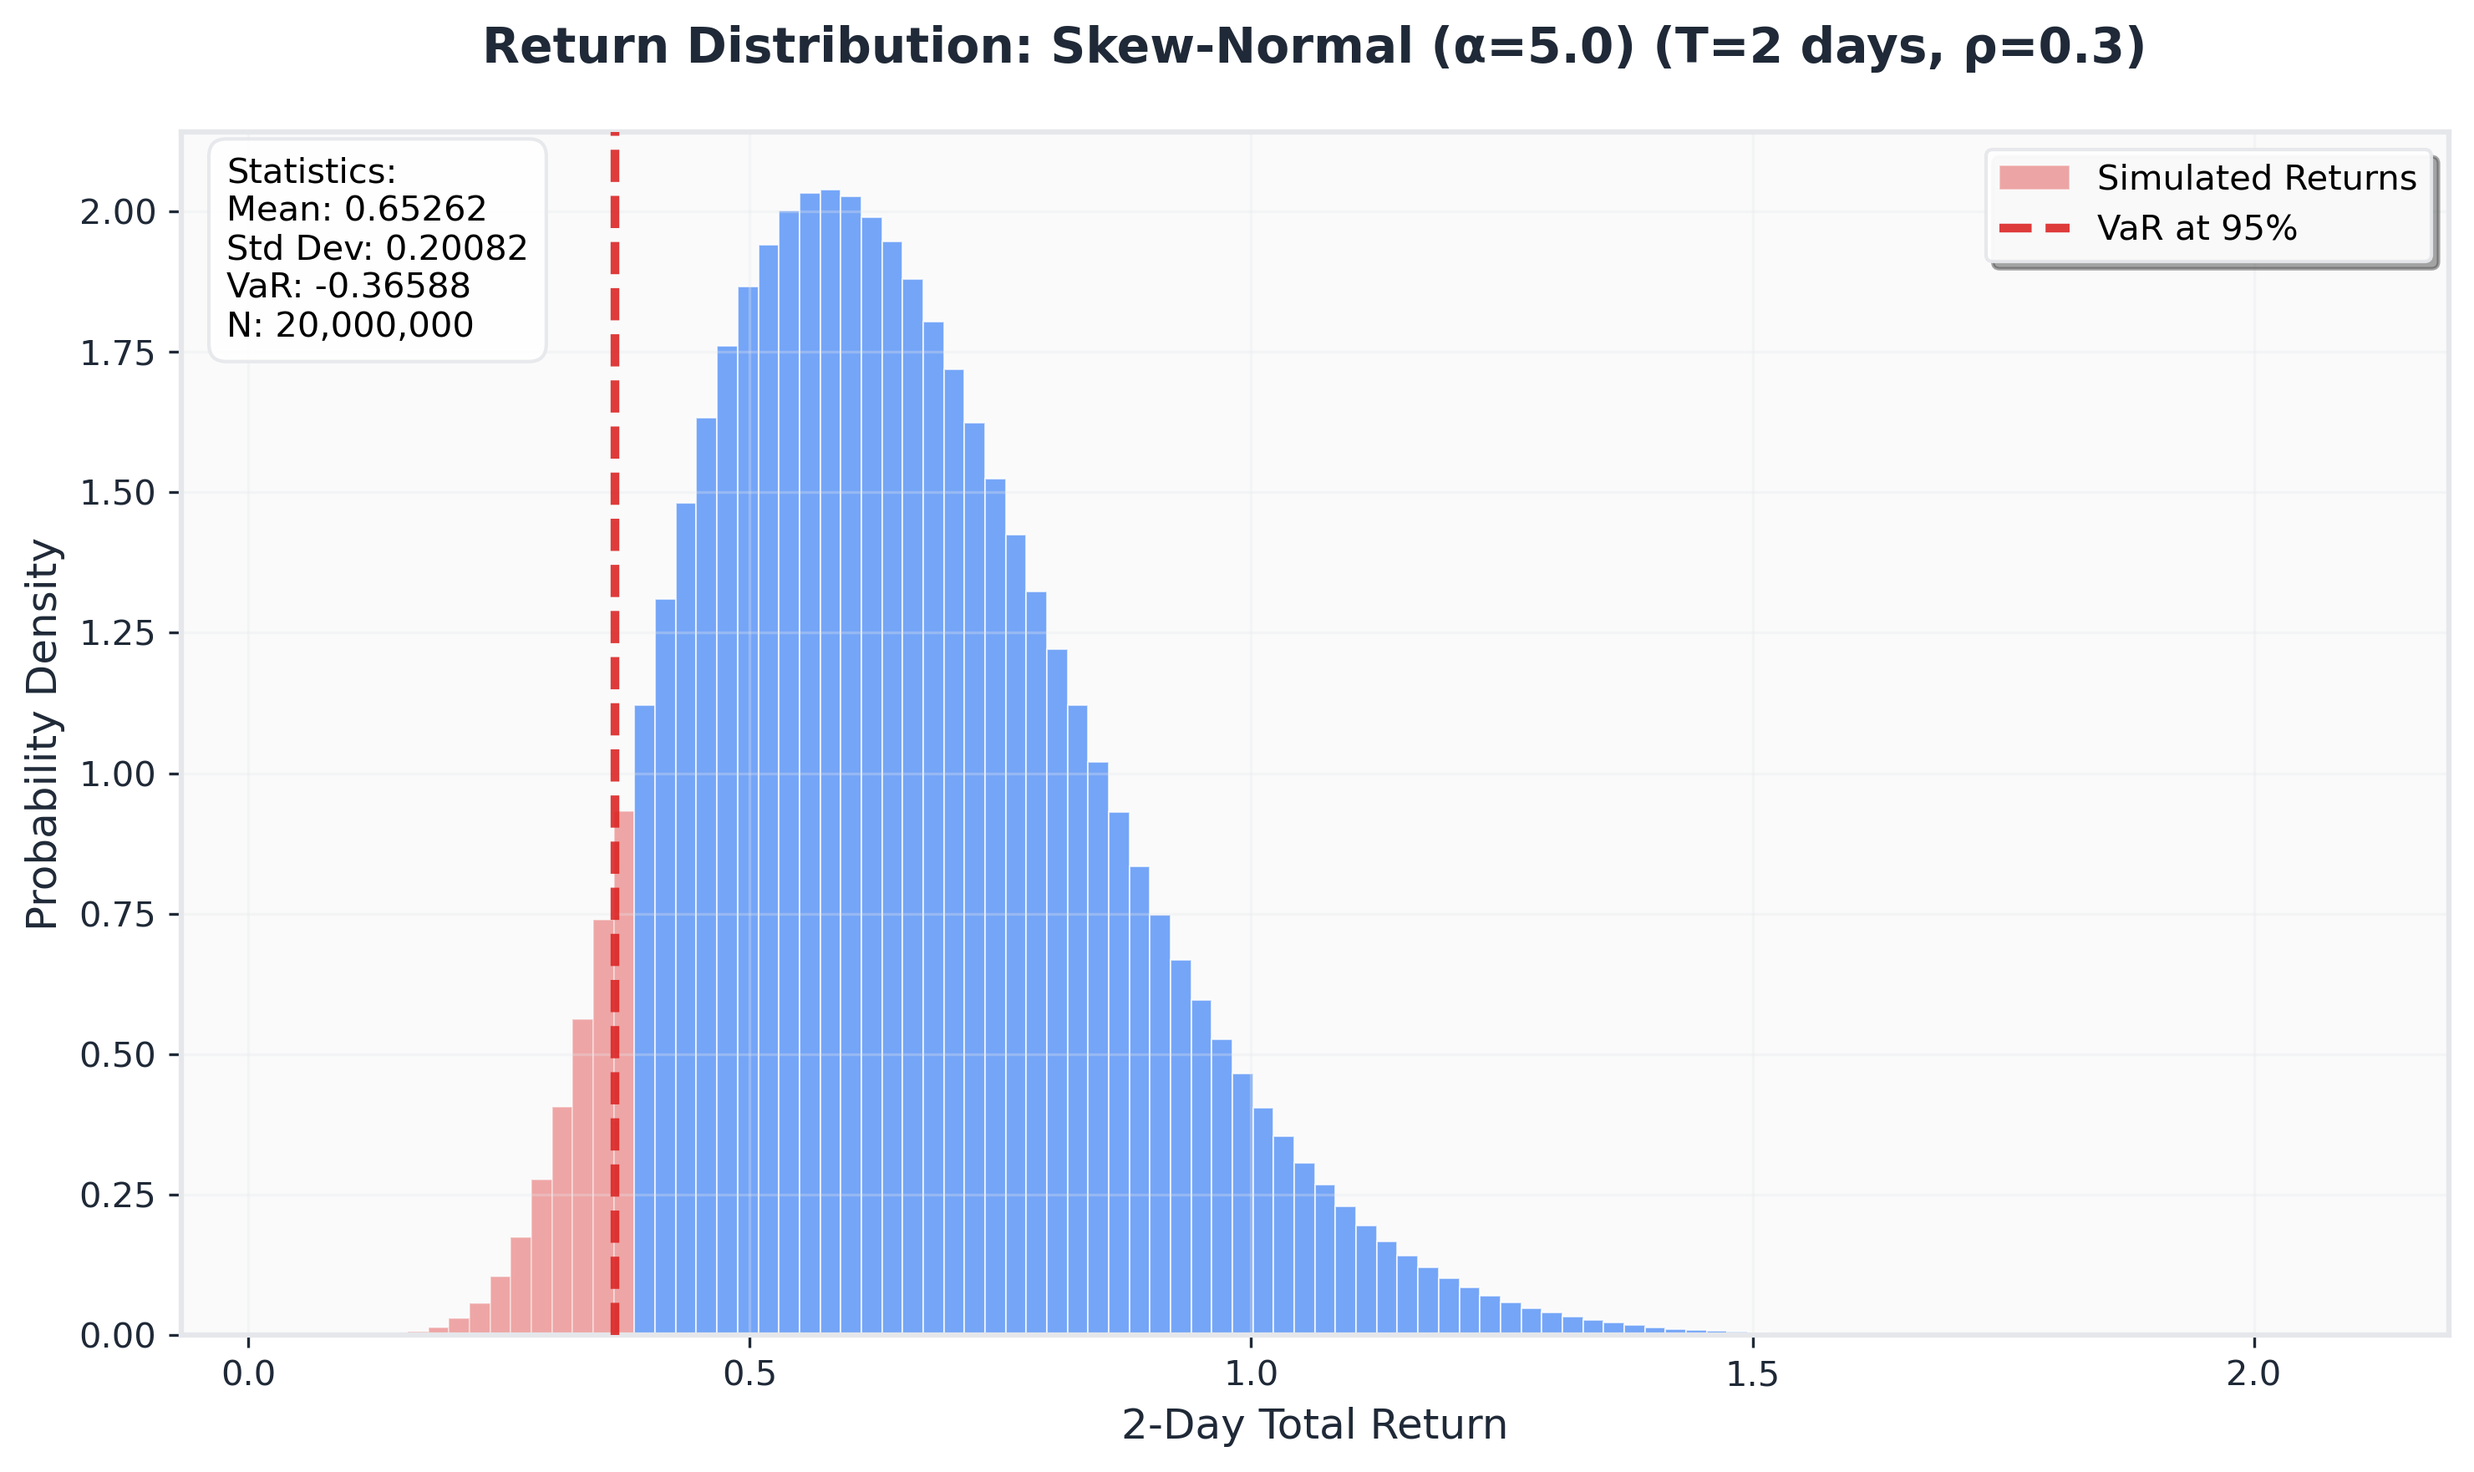
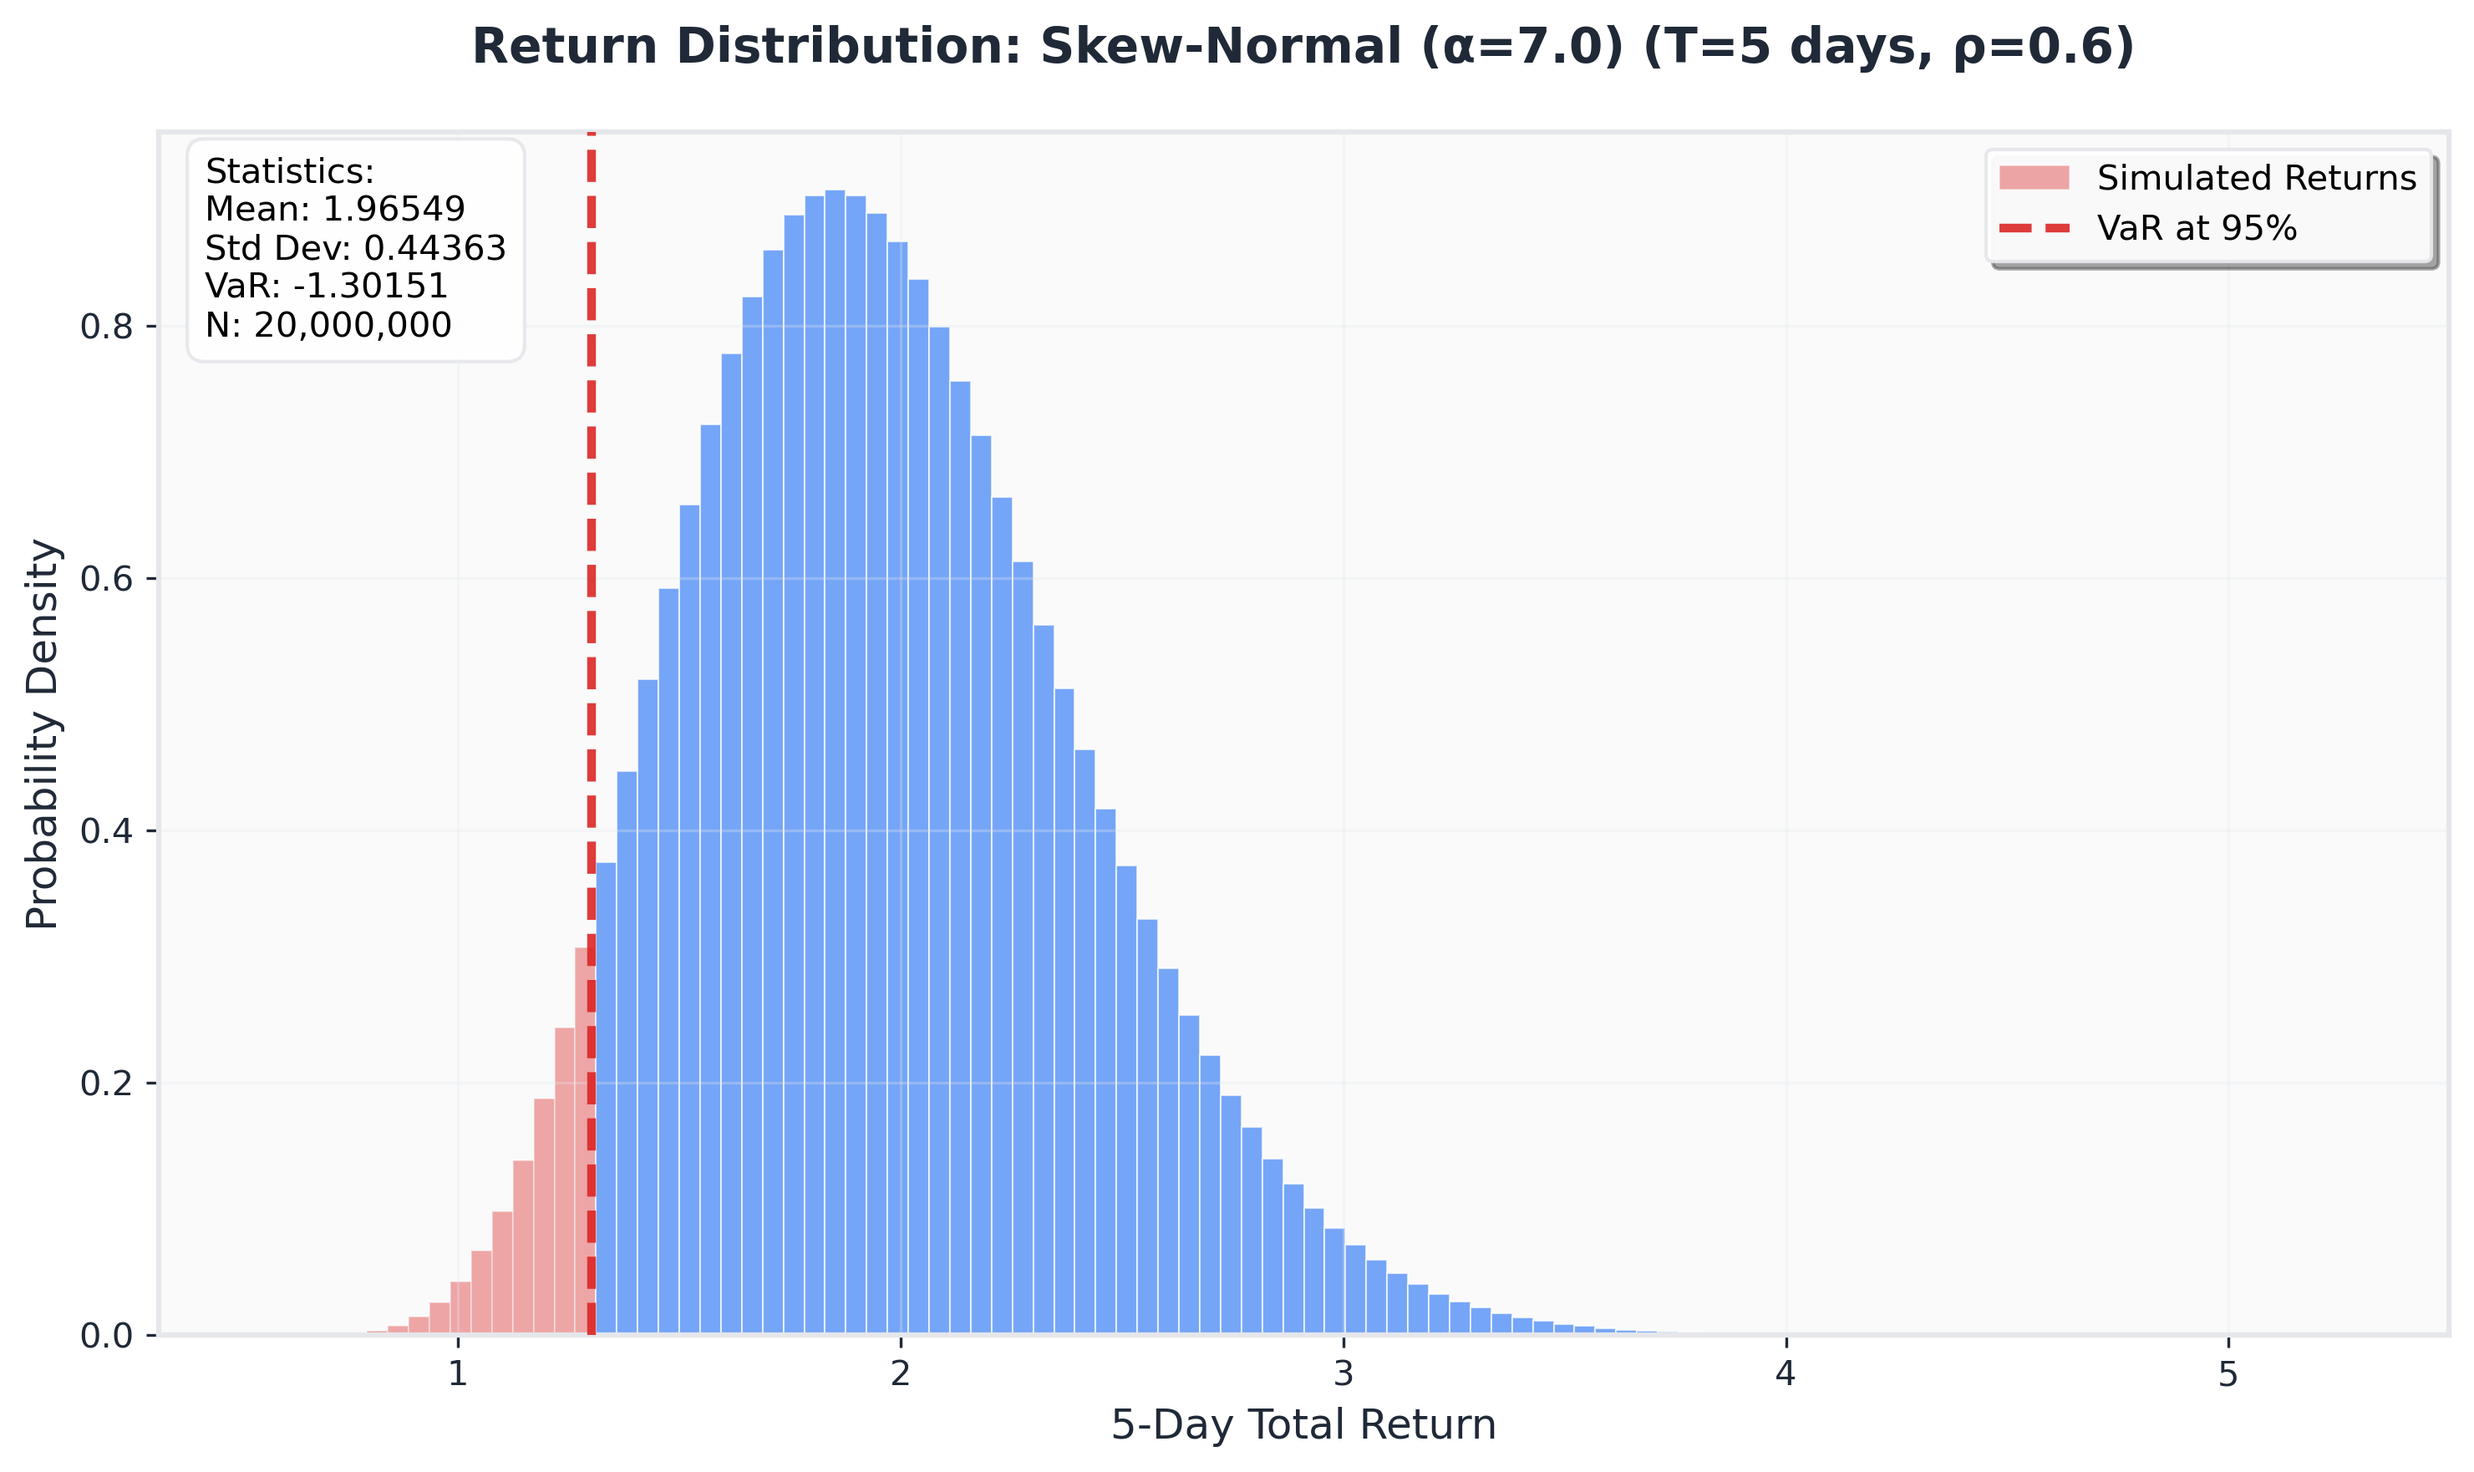
Monte carlo theoritical is the average of multiple runs
highjey might be dumb to average monte carlo runs but idc

diff --git a/step1/classical/enhanced_monte_carlo_graphs_multi_day.py b/step1/classical/enhanced_monte_carlo_graphs_multi_day.py
@@ -54,16 +54,17 @@ sigma = 0.20                   # Daily volatility (20%)
 confidence_level = 0.95        # VaR confidence level
 
 # Multi-day and distribution settings
-T = 2                          # Number of days for multi-day VaR
+T = 5                          # Number of days for multi-day VaR
 dist = "skewnorm"              # Distribution: "gaussian", "student-t", "skewnorm"
 df = 3                         # Degrees of freedom for Student-t
-skew_alpha = 5.0               # Skew parameter for skew-normal
-rho = 0.3                      # AR(1) correlation coefficient
+skew_alpha = 7.0               # Skew parameter for skew-normal
+rho = 0.6                      # AR(1) correlation coefficient
 
 # Simulation settings
 num_samples_max = 10**7        # Maximum samples
 num_samples_count = 250        # Number of sample sizes to test
 theoretical_N = num_samples_max * 2 # Samples for theoretical VaR estimation
+theoretical_estimations = 10        # Averaging runs for theoretical VaR
 CPU_WORKERS = 10               # Parallel workers
 
 # Generate logarithmically spaced sample sizes
@@ -199,12 +200,16 @@ print(f"  • Correlation (ρ):          {rho:.2f}")
 print(f"  • Sample range:             {num_samples_list[0]:,} to {num_samples_list[-1]:,}")
 print("\n" + "="*70)
 
-# Estimate theoretical VaR using large N
-print(f"\nEstimating theoretical VaR with N={theoretical_N:,}...")
-theoretical_mc = monte_carlo_var(
-    theoretical_N, mu, sigma, confidence_level, 0.0, T, dist, df, skew_alpha, rho
-)
-theoretical_var = theoretical_mc.var_estimate
+# Estimate theoretical VaR using large N and multiple runs
+print(f"\nEstimating theoretical VaR with N={theoretical_N:,} over {theoretical_estimations} runs...")
+theoretical_vars = []
+for i in range(theoretical_estimations):
+    mc_run = monte_carlo_var(
+        theoretical_N, mu, sigma, confidence_level, 0.0, T, dist, df, skew_alpha, rho
+    )
+    theoretical_vars.append(mc_run.var_estimate)
+    print(f"  Run {i+1}/{theoretical_estimations}: VaR = {mc_run.var_estimate:.5f}")
+theoretical_var = float(np.mean(theoretical_vars))
 print(f"Theoretical VaR ({int(confidence_level*100)}%): {theoretical_var:.5f}")
 
 # Run parallel simulations
